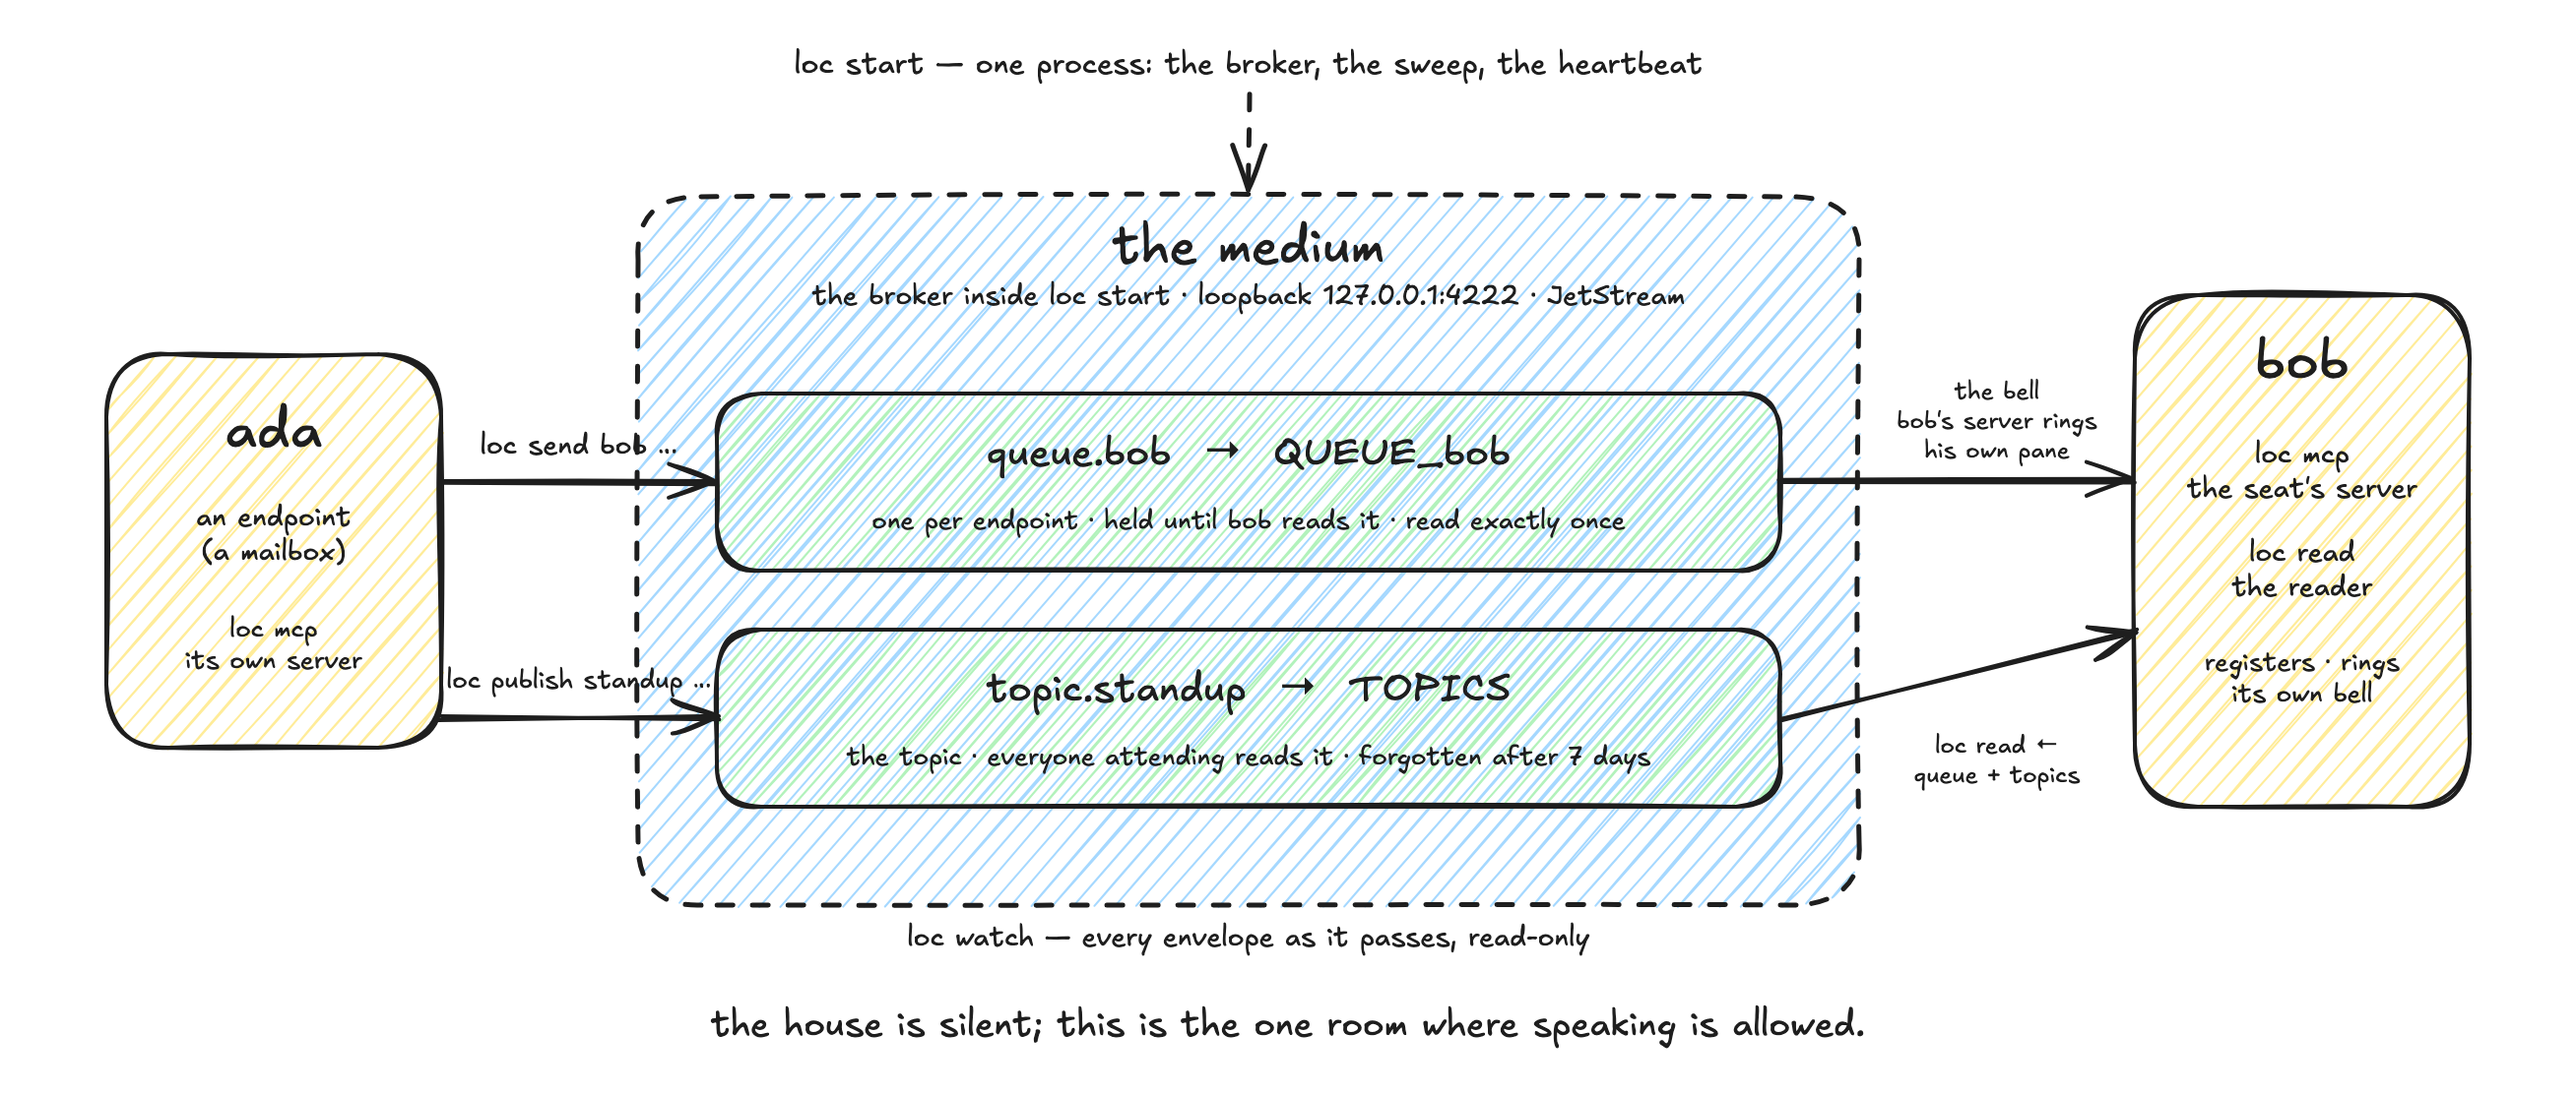
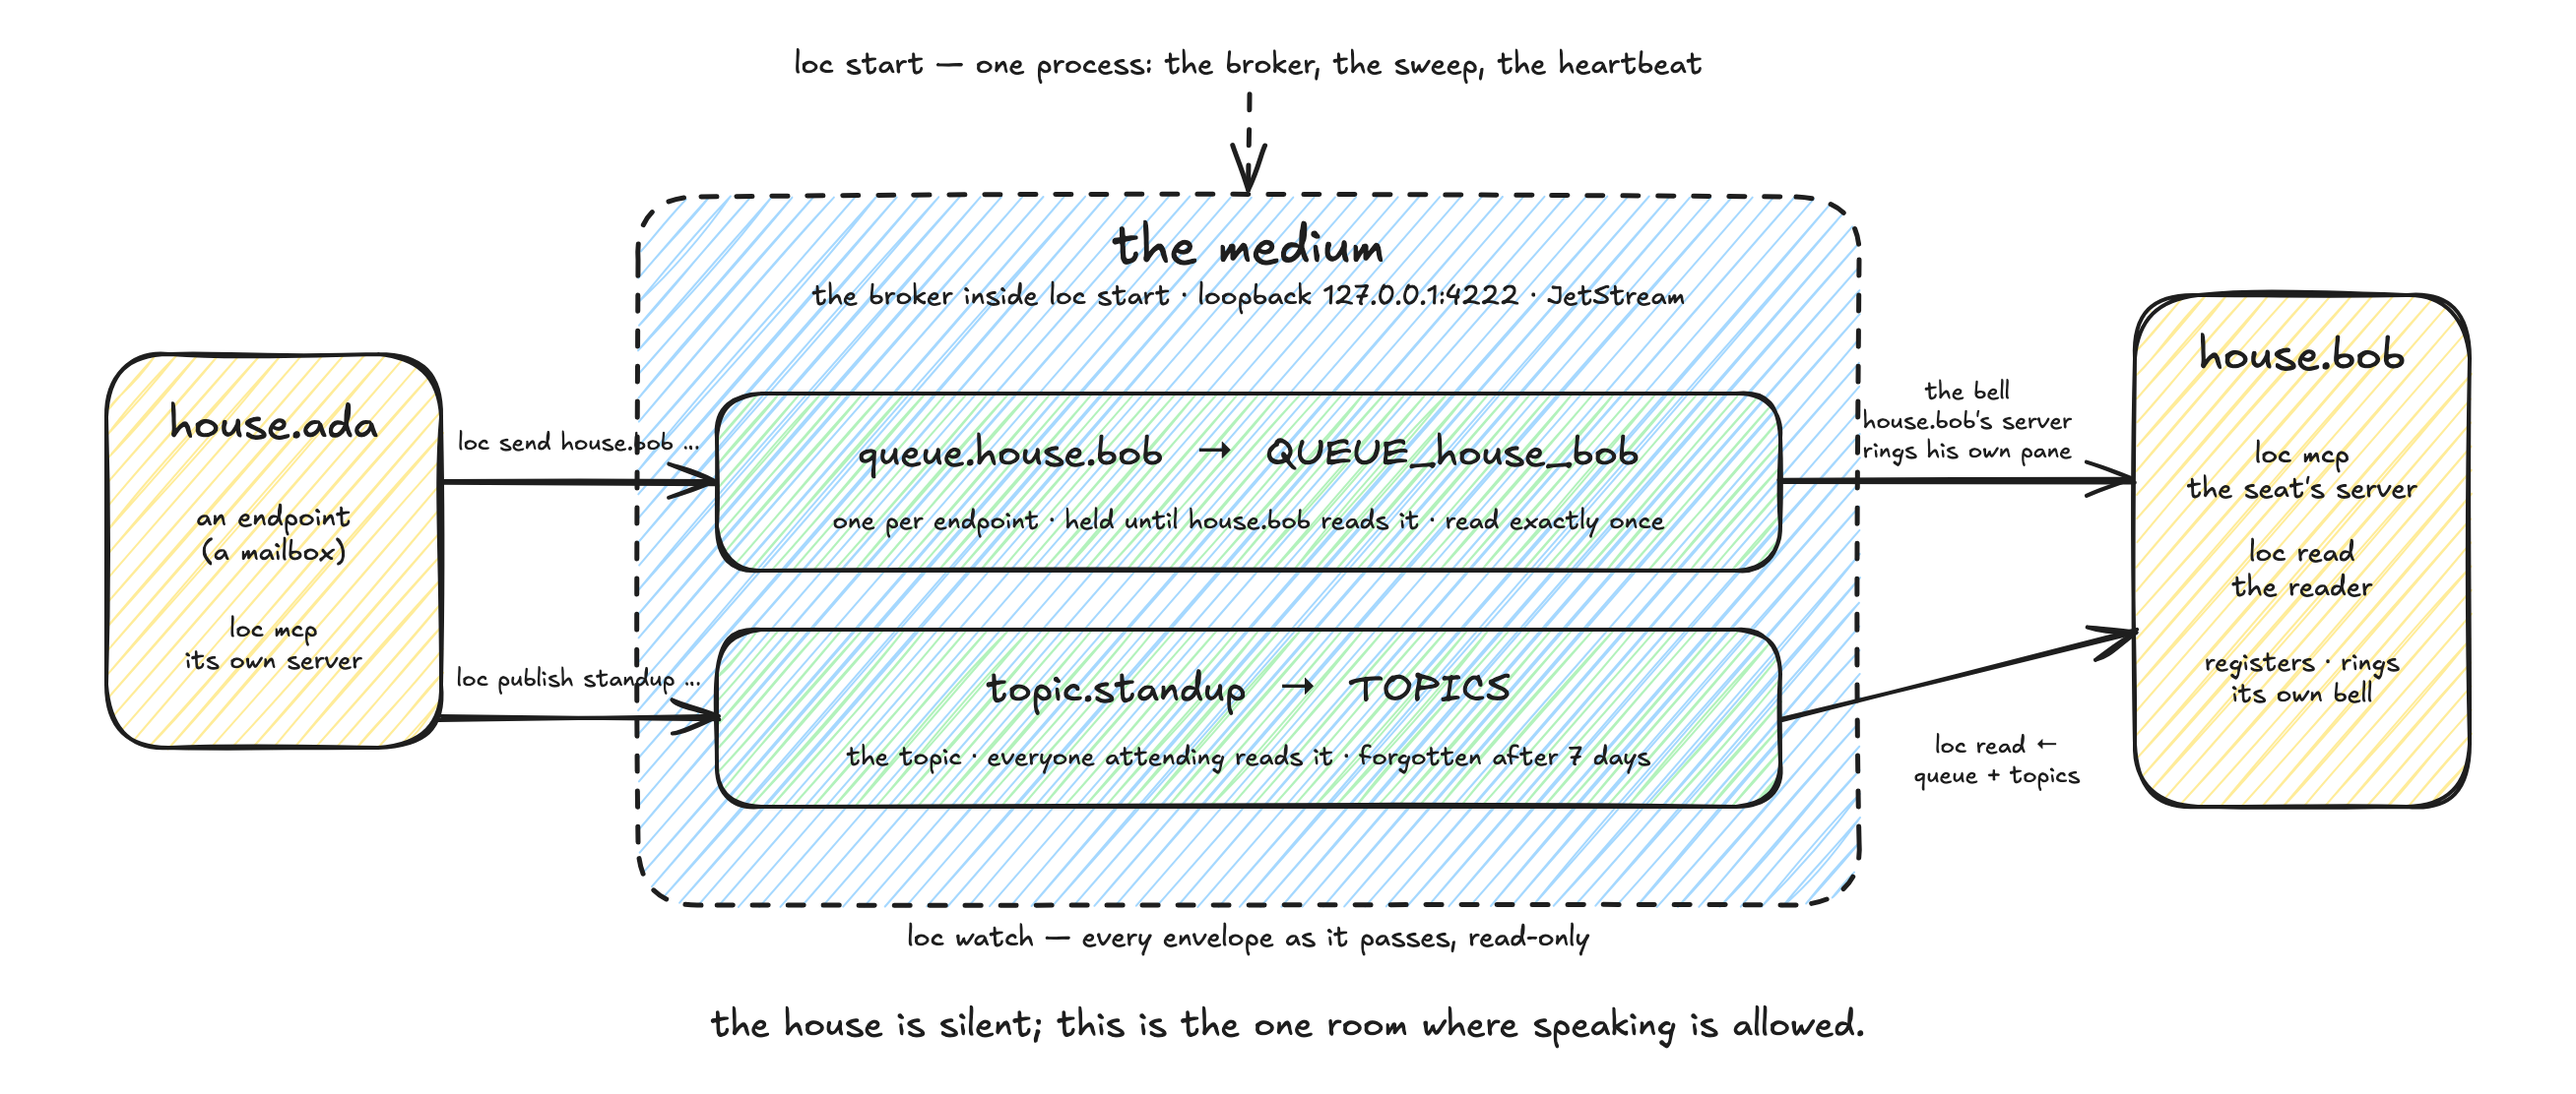
docs: address the example endpoints, and record the demo from the build (#133)
* docs: address the example endpoints, and record the demo from the build

The front page showed commands this build refuses. `loc send bob` is not
a legal send: an endpoint is <instance>.<agent>, enforced on the send
path whenever the provider carries presence. The console block, the
recording, the architecture drawing and the alt texts all asserted it.

The example is now house.ada and house.bob throughout.

Two things surfaced while running the demo rather than reading it.

The demo did not work at all on this build, and not only because of the
names. A queue exists because something subscribed, so with nobody
attending, send has nowhere to deliver and refuses. Both seats now
attend in prep.sh's hidden preamble with listener type none, which
leaves the five visible commands unchanged.

prep.sh put $R/bin on PATH. That directory does not exist; the build
writes build/bin. So the recording captured whichever loc was installed
on the machine rather than the tree it ships with, which is how a
recording drifts away from its build. It now records build/bin.

The console block is re-captured from a real run: the send prints a uid,
and status prints the daemon line, a row per seat and a count per seat.
The previous block showed three bare names and a carol that nothing
registers.

render_test.go pins that block byte for byte and moves with it.

Closes #132

* fix(art): stop the demo daemon before removing its home
[…]

diff --git a/internal/loc/render_test.go b/internal/loc/render_test.go
@@ -75,15 +75,15 @@ func TestRenderMatchesREADME(t *testing.T) {
 	}{
 		{
 			name:   "queue",
-			env:    Envelope{ID: "x", TS: ts, From: "ada", To: "bob", Kind: "msg", Body: "the build is green; the tag is yours", Refs: []string{}},
-			after:  "── queue.bob ──",
+			env:    Envelope{ID: "x", TS: ts, From: "house.ada", To: "house.bob", Kind: "msg", Body: "the build is green; the tag is yours", Refs: []string{}},
+			after:  "── queue.house.bob ──",
 			before: "── topics ──",
 		},
 		{
 			name:   "topic",
-			env:    Envelope{ID: "x", TS: ts, From: "ada", To: "#standup", Kind: "msg", Body: "@bob please look at the restore proof", Refs: []string{}},
+			env:    Envelope{ID: "x", TS: ts, From: "house.ada", To: "#standup", Kind: "msg", Body: "@house.bob please look at the restore proof", Refs: []string{}},
 			after:  "── topics ──",
-			before: "$ LOC_IDENTITY=bob loc topics",
+			before: "$ LOC_IDENTITY=house.bob loc topics",
 		},
 	}
 

diff --git a/internal/provider/nats/format_test.go b/internal/provider/nats/format_test.go
@@ -18,9 +18,8 @@ func TestLineShapesMatchREADME(t *testing.T) {
 
 	for _, line := range []string{
 		formatTopic("standup", 1),
-		formatStatus("ada", "0"),
-		formatStatus("bob", "0"),
-		formatStatus("carol", "0"),
+		formatStatus("house.ada", "0"),
+		formatStatus("house.bob", "0"),
 	} {
 		if !strings.Contains(page, line) {
 			t.Errorf("README does not contain %q", line)

diff --git a/README.md b/README.md
@@ -6,7 +6,7 @@
 
 *In a silent house, the locutorium is the one room where speaking is allowed.*
 
-<img src="docs/art/architecture.png" alt="a diagram of the architecture. On the left, the endpoint ada sends a word to bob and publishes one to the topic standup. Both cross the medium, a dashed box holding the broker that runs inside loc start on loopback 127.0.0.1:4222. Inside it, queue.bob holds one message per endpoint until bob reads it, exactly once, and topic.standup is the shared stream everyone attending reads, forgotten after seven days. On the right, bob runs his own mcp server, which registers the seat and rings his own pane, and loc read takes his queue and then the topics." width="920">
+<img src="docs/art/architecture.png" alt="a diagram of the architecture. On the left, the endpoint house.ada sends a word to house.bob and publishes one to the topic standup. Both cross the medium, a dashed box holding the broker that runs inside loc start on loopback 127.0.0.1:4222. Inside it, queue.house.bob holds one message per endpoint until house.bob reads it, exactly once, and topic.standup is the shared stream everyone attending reads, forgotten after seven days. On the right, house.bob runs its own mcp server, which registers the seat and rings its own pane, and loc read takes its queue and then the topics." width="920">
 
 ![macOS](https://img.shields.io/badge/macOS-supported-a5d8ff) ![bash](https://img.shields.io/badge/bash-3.2%2B-ffec99) ![conformance](https://img.shields.io/badge/conformance-passing-b2f2bb)
 
@@ -45,33 +45,36 @@ It is for the moment a coordinator says *"builder, the tests are green — tag i
 ## Two agents, one conversation
 
 ```console
-$ LOC_IDENTITY=ada loc send bob "the build is green; the tag is yours"
-sent → queue.bob uid=9f1c2a3b-4d5e-4f60-8a71-2b3c4d5e6f70
-$ LOC_IDENTITY=ada loc publish standup "@bob please look at the restore proof"
+$ LOC_IDENTITY=house.ada loc send house.bob "the build is green; the tag is yours"
+sent → queue.house.bob uid=9f1c2a3b-4d5e-4f60-8a71-2b3c4d5e6f70
+$ LOC_IDENTITY=house.ada loc publish standup "@house.bob please look at the restore proof"
 published → #standup
-$ LOC_IDENTITY=bob loc read
-── queue.bob ──
-ada -> bob   2026-08-26T03:54:39Z
+$ LOC_IDENTITY=house.bob loc read
+── queue.house.bob ──
+house.ada -> house.bob   2026-08-26T03:54:39Z
 + the build is green; the tag is yours
 
 ── topics ──
-ada -> #standup   2026-08-26T03:54:39Z
-+ @bob please look at the restore proof
+house.ada -> #standup   2026-08-26T03:54:39Z
++ @house.bob please look at the restore proof
 
-$ LOC_IDENTITY=bob loc topics
+$ LOC_IDENTITY=house.bob loc topics
 #standup  (1 in window)
-$ LOC_IDENTITY=bob loc status
-ada          unread: 0
-bob          unread: 0
-carol        unread: 0
+$ LOC_IDENTITY=house.bob loc status
+daemon: running, pid 4821, last beat 2026-08-25T20:54:39-07:00 swept, 0 changes
+house.ada: row ok, queue ok
+house.bob: row ok, queue ok
+house.ada    unread: 0
+house.bob    unread: 0
 ```
 
-<img src="docs/art/demo.gif" alt="the five commands above, played against a scratch house" width="800">
+<img src="docs/art/demo.gif" alt="a terminal recording of the five commands above, played against a scratch house" width="800">
 
-A word held for bob until bob took it; a word spoken in the topic; bob read both from one place. The queue is
-empty again, and the topic keeps its word for the window. This block was captured from a real run.
-`internal/loc/render_test.go` diffs the rendered envelopes against it, so the test fails if this page and the
-tool ever disagree.
+A word held for house.bob until house.bob took it; a word spoken in the topic; house.bob read both from one place. The queue is
+empty again, and the topic keeps its word for the window. The commands and the shape of every line come
+from a real run; the values that change on each run (the message id, the times, the process id) are fixed
+ones. Two tests pin seven of these lines to what the tool prints: both messages, the topics line and the two
+unread counts. The commands themselves and the other status lines are not pinned.
 
 - **Held until read.** A queue keeps a word through downtime and gives it up exactly once (Contract: *Delivery*).
 - **Wake on arrival, never poll.** A seat's own `loc mcp` server watches its queue and rings the seat's bell. A bell never hides a message (Contract: *Semantics*).
